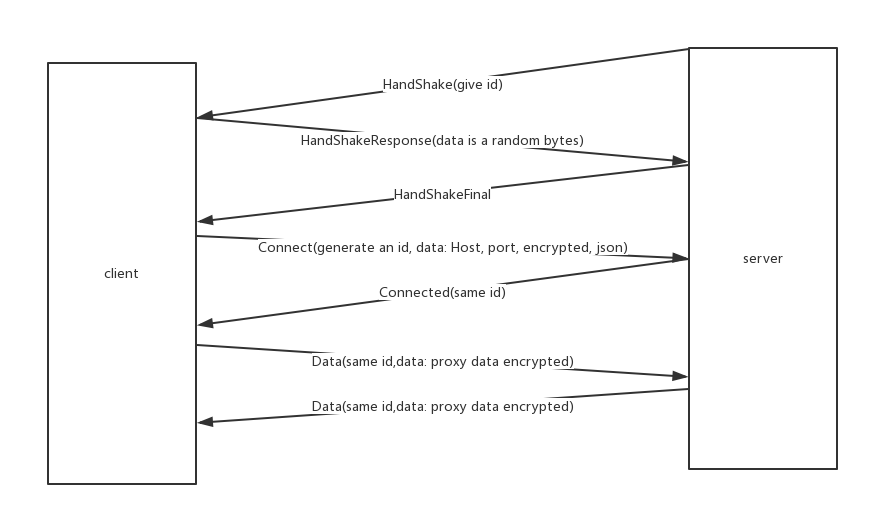
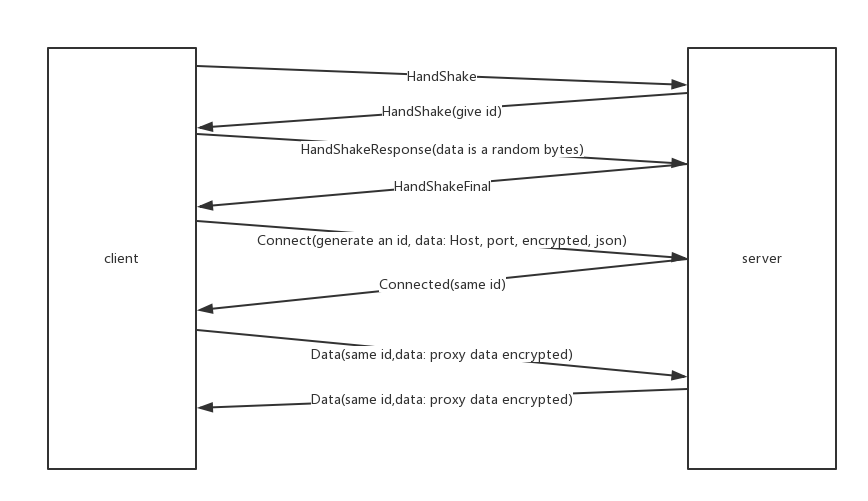
add one more handshake

diff --git a/Shark/Program.cs b/Shark/Program.cs
@@ -58,13 +58,17 @@ namespace Shark
                     })
                     //.OnClientConnected(async client =>
                     //{
-                    //    var block = new BlockData() { Id = client.Id, Type = BlockType.HAND_SHAKE };
-                    //    await client.WriteBlock(block);
-                    //    block = await client.ReadBlock();
-                    //    client.GenerateCryptoHelper(block.Data);
-                    //    block = new BlockData { Id = client.Id, Type = BlockType.HAND_SHAKE_FINAL };
-                    //    await client.WriteBlock(block);
-                    //    await client.RunSharkLoop();
+                    //    var block = await client.ReadBlock();
+                    //    if (block.Type == BlockType.HAND_SHAKE)
+                    //    {
+                    //        block = new BlockData() { Id = client.Id, Type = BlockType.HAND_SHAKE };
+                    //        await client.WriteBlock(block);
+                    //        block = await client.ReadBlock();
+                    //        client.GenerateCryptoHelper(block.Data);
+                    //        block = new BlockData { Id = client.Id, Type = BlockType.HAND_SHAKE_FINAL };
+                    //        await client.WriteBlock(block);
+                    //        await client.RunSharkLoop();
+                    //    }
                     //    client.Dispose();
                     //    client.Server.RemoveClient(client);
                     //})

diff --git a/Shark/Data/BlockData.cs b/Shark/Data/BlockData.cs
@@ -33,7 +33,7 @@ namespace Shark.Data
                 return;
             }
 
-            if (Data?.Length != Length || Crc32 != ComputeCrc())
+            if ((Data?.Length ?? 0) != Length || Crc32 != ComputeCrc())
             {
                 MarkInvalid();
             }
